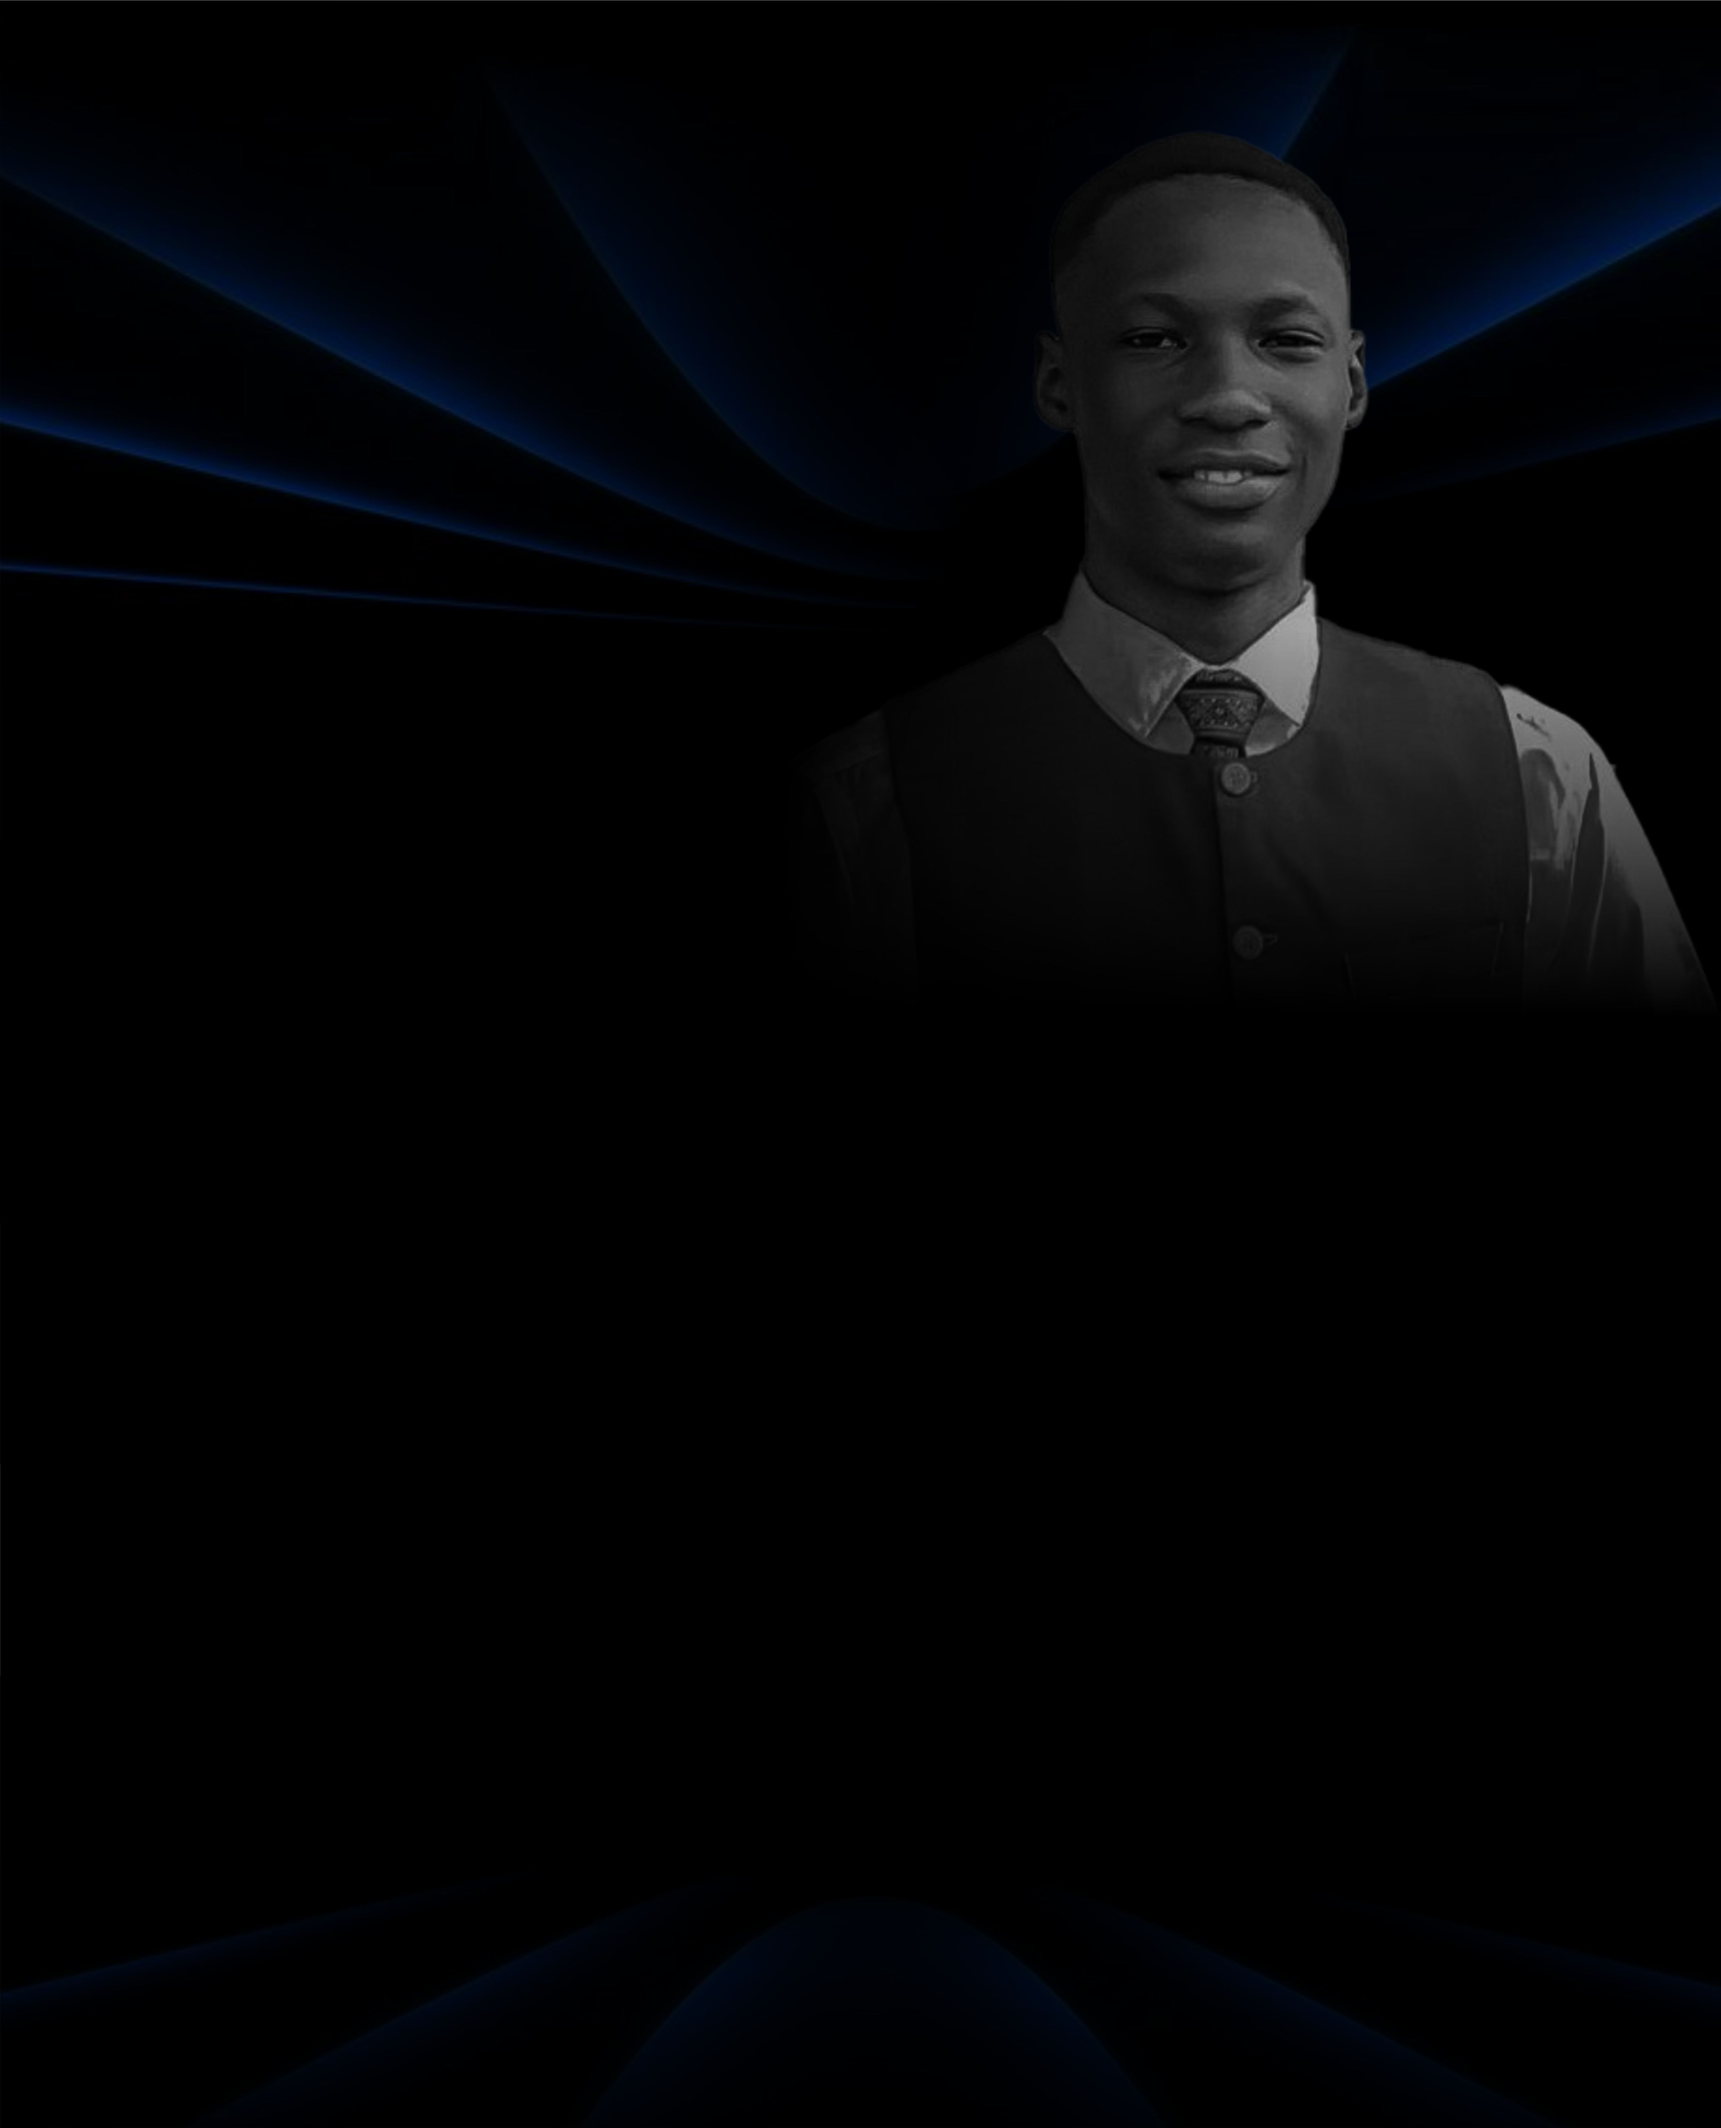
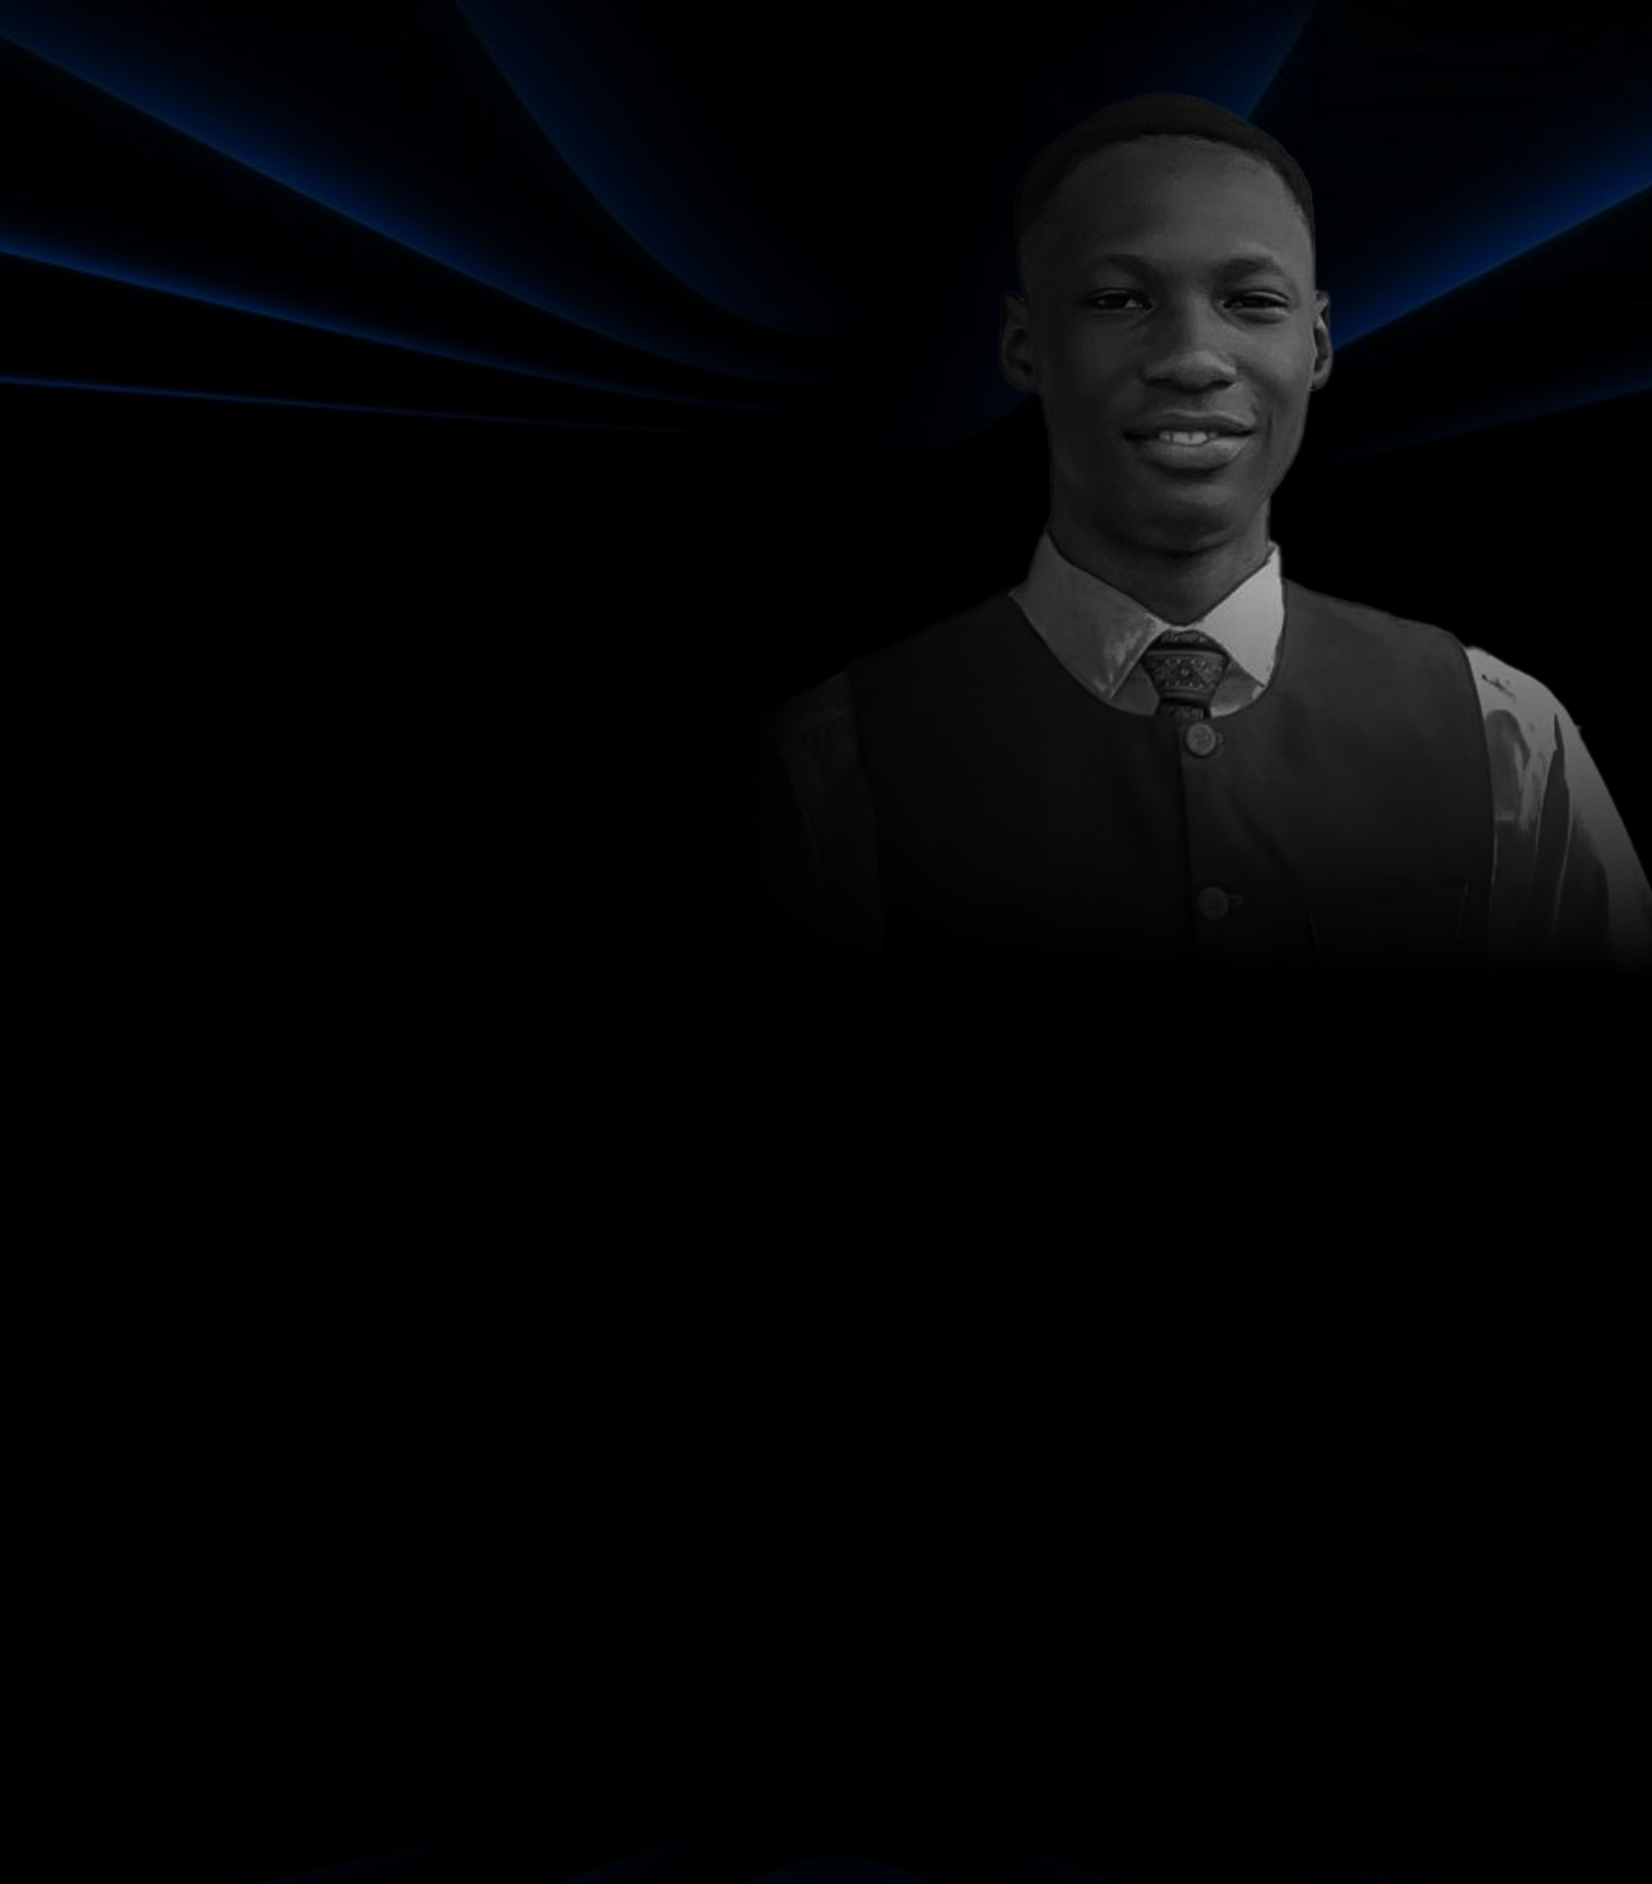
improved hero section

diff --git a/src/assets/component/FooterSection.jsx b/src/assets/component/FooterSection.jsx
@@ -18,9 +18,9 @@ const FooterSection = () => {
     // };
     return (
         <div id='Contact'
-        className="h-[] bg-cover bg-center bg-no-repeat w-full md:h-[900px] md:py- px-6 md:px-78"
+        className="h-[] bg-cover bg-center bg-no-repeat w-full md:h-[950px] md:py- px-6 md:px-78"
           style={{ backgroundImage: `url(${bgmage})` }}>
-            <div className='h-[600px] w-[1500px] absolute top-900 bg-[#0a0a0a] border-1 rounded-2xl max-w-7xl py-10 px mt-5 grid md:grid-cols-2 gap-30 items-start'>
+            <div className='h-[600px] w-[1300px] absolute top-900 bg-[#0a0a0a] rounded-2xl py-10 px- mt-5 grid md:grid-cols-2 gap-30 items-start'>
                 <div className='w-[550px] mt-4 px-6 ml-5 rounded-2xl'>
                     <h2 className='text-white text-3xl font-semibold '>Let's Discuss</h2>
                     <p className='text-white text-3xl font-semibold'>Something <span className='text-[#009D66]'>Innovative</span> Together</p>
@@ -94,7 +94,7 @@ const FooterSection = () => {
                 <div>
                     <div className="space-y-4 w-[550px]">
                         <div className='flex gap-2'><h3 className="text-[20px] text-white font-semibold ml-2">
-                          I’ve got what you need <span className="text-green-400  font-bold text-[28px] mt-1">Lets talk</span> </h3>
+                          I’ve got what you need <span className="text-[#009D66]  font-bold text-[28px] mt-1">Lets talk</span> </h3>
                          
                         </div>
                      <form className="space-y-4">

diff --git a/src/assets/component/AboutSection.jsx b/src/assets/component/AboutSection.jsx
@@ -13,7 +13,7 @@ const AboutSection = () => {
   id="About"
   className="min-h-[2400px] bg-cover bg-no-repeat w-full
     bg-[url('/Image/background3.jpg')]
-    md:bg-[url('/Image/background.jpg')]
+    md:bg-[url('/images/background.jpg')]
   "
   style={{ backgroundPosition: 'center top' }}
 >
@@ -46,11 +46,11 @@ const AboutSection = () => {
                 </p>
             </div>
             </div>
-            <div id='Portfolio' className='flex md:py-36 px-6 md:px-75 justify-between mt-30'>
+            <div id='Portfolio' className='flex md:py-36 px-6 md:px-85 justify-between mt-30'>
                 <div>
-                    <img src="/Image/1.jpg" alt="" className='md:w-[2300px] md:h-[250px]' />
+                    <img src="/images/workstation.jpg" alt="" className='md:w-[2300px] md:h-[365px] rounded' />
                 </div>
-                <div className='ml-70 -mt-7 '>
+                <div className='ml-20 mt-[2px] '>
                     <div>
                         <h1 className='text-[#009D66] text-5xl font-bold mb-6'>My Skills</h1>
                         <p className='text-white text-2xl mb-10 -ml-[1px]'>Technologies I’ve been working with recently</p>

diff --git a/src/assets/component/NavBar.jsx b/src/assets/component/NavBar.jsx
@@ -34,11 +34,11 @@ function Navbar() {
 
   return (
     <nav
-      className={`w-full sm:h-[120px] h-[80px] px-[10px] md:px-25 py:2 md:py-5 bg-black opacity-70 z-50 ${
-        isFixed ? 'fixed top-0 left-0' : 'absolute top-0 left-0 px-[15px] md:px-25 py-2 md:py-5'
+      className={`md:w[1440px] md:h-[120px] h-[80px] px-[5px] md:px-25 py:2 md:py-5 bg-black opacity-70 z-50 ${
+        isFixed ? 'fixed top-0 left-0' : 'absolute top-0 left-0 px-[5px] md:px-25 py-2 md:py-5'
       }`}
     >
-      <div className="md:px-50 px-20 py-3 md:py-4 flex justify-between items-center">
+      <div className="md:px-50 px-10 py-2 md:py-4 flex justify-between items-center">
         {/* Logo */}
         <img
           src="/Image/logo.png"

diff --git a/src/assets/page/LandingPage.jsx b/src/assets/page/LandingPage.jsx
@@ -6,7 +6,7 @@ import AboutSection from "../component/AboutSection";
 function LandingPage() {
   return (
     <>
-      <div className="min-w-[1920px] min-h-screen flex flex-col overflow-x-hidden bg-b">
+      <div className="w-[375px] md:w-full min-h-screen flex flex-col overflow-x-hidden bg-b">
         <HeroSection />
         <AboutSection />
         {/* <FooterSection /> */}

diff --git a/src/assets/component/HeroSection.jsx b/src/assets/component/HeroSection.jsx
@@ -10,9 +10,9 @@ const HeroSection = () => {
     return(
         
         <section
-  className="min-h-screen bg-cover bg-center bg-no-repeat w-full
+  className="min-h-screen bg-cover bg-center bg-no-repeat w-[375px] md:w-full 
 "
-  style={{ backgroundImage: "url('images/background3.jpg" }}
+  style={{ backgroundImage: "url('images/back.jpg" }}
 >
 
   <motion.div
